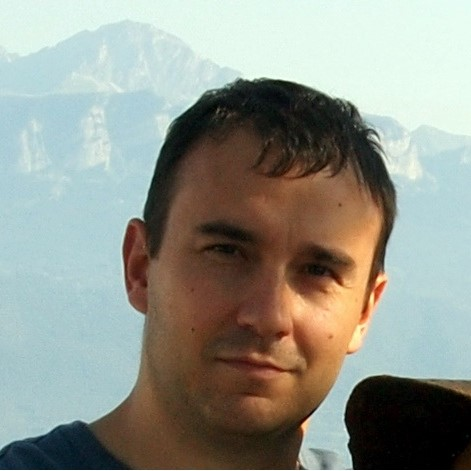
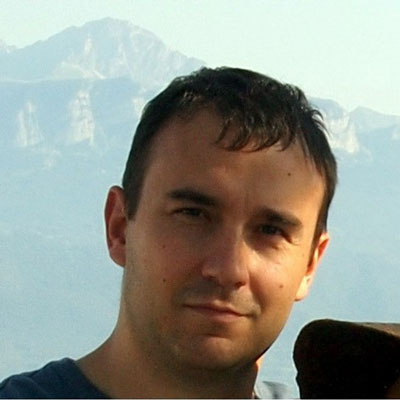
smaller picture

diff --git a/call-papers.html b/call-papers.html
@@ -177,7 +177,7 @@
 			<div class="column">
 				<div class="ui card">
 				<a class="image" href="http://web.cs.iastate.edu/~borzoo/" target="_blank">
-					<img src="img/committees/borzoo.png">
+					<img src="img/committees/borzoo.jpg">
 				</a>
 				<div class="content">
 					<a class="header" href="http://web.cs.iastate.edu/~borzoo/" target="_blank">Borzoo Bonakdarpour</a>
